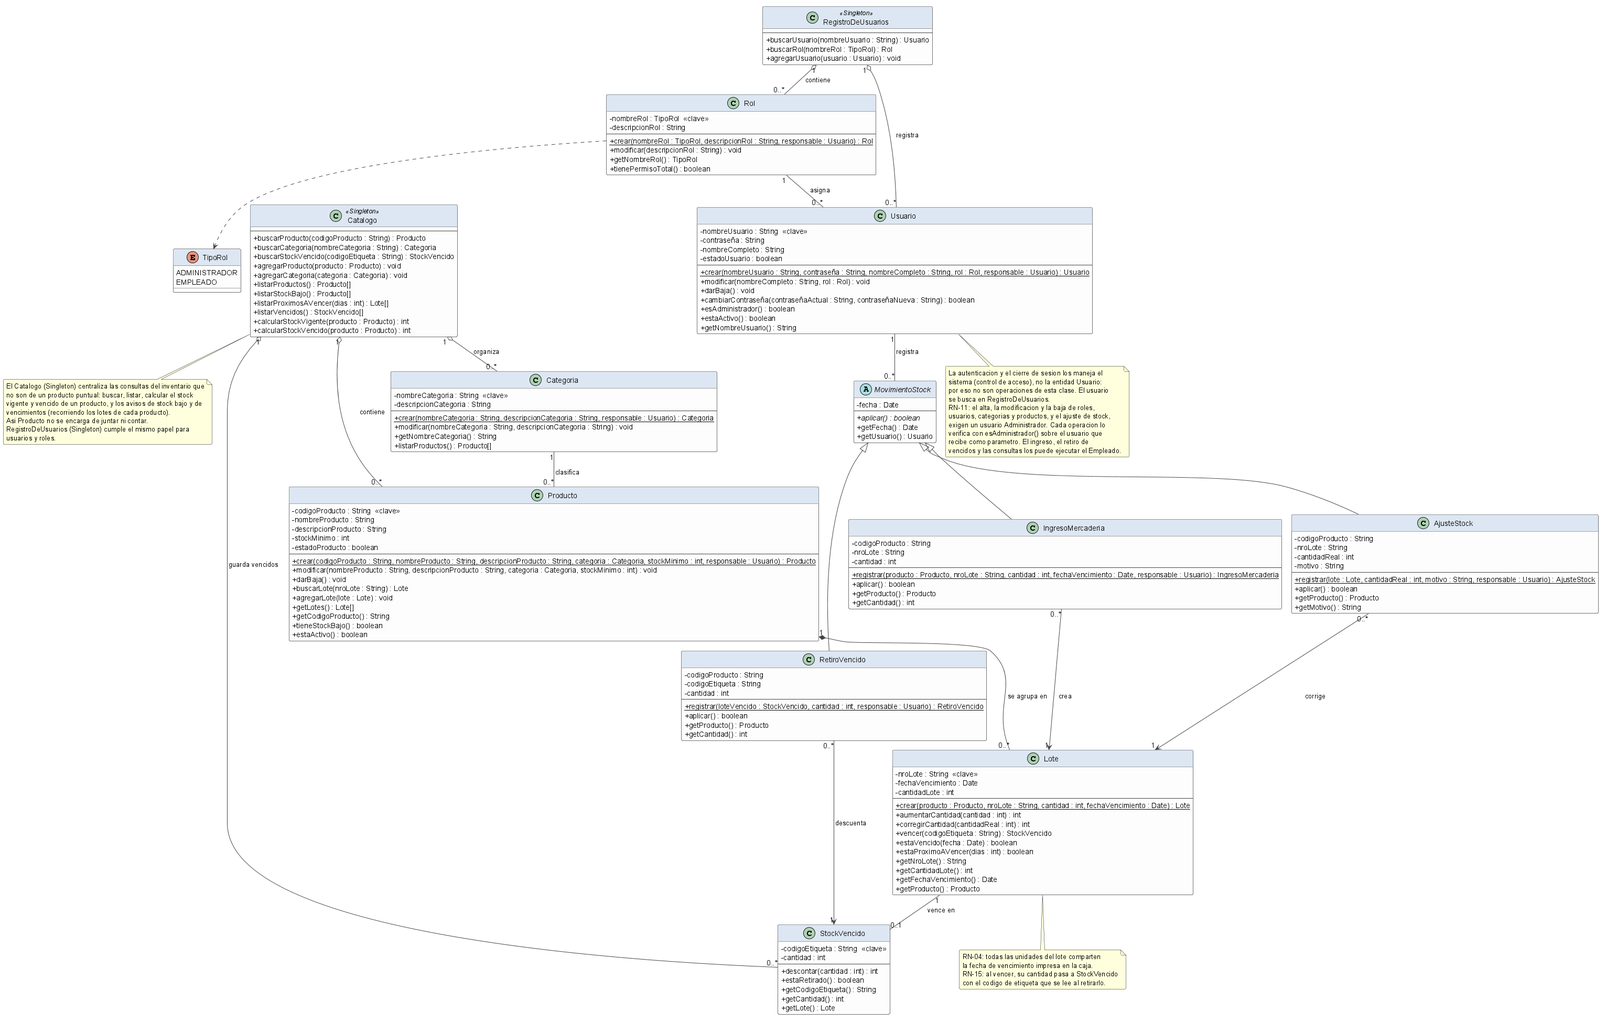
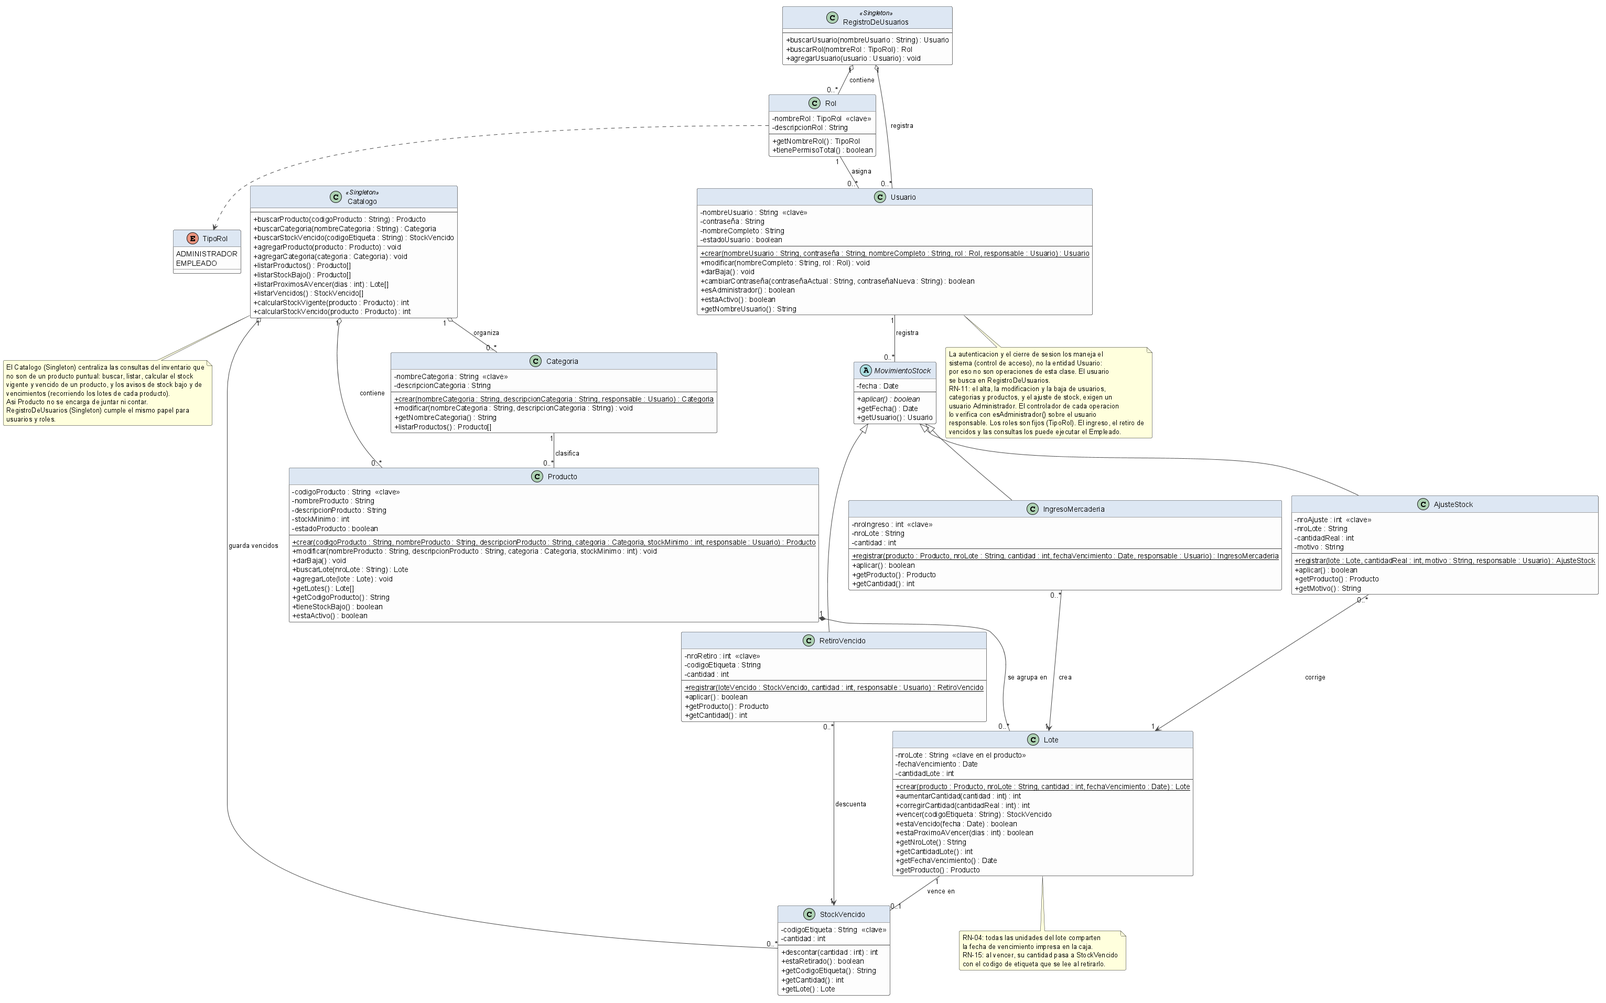
nuevas modificaciones

diff --git a/05-Caso De Uso/Casos_de_Uso.md b/05-Caso De Uso/Casos_de_Uso.md
@@ -10,8 +10,8 @@ Documentación de los requerimientos funcionales del sistema de control de stock
 
 **Primarios** (utilizan las funciones principales del sistema):
 
-- **Administrador:** acceso total. Gestiona productos, categorías y usuarios, realiza ajustes de stock, registra ingresos de mercadería y retiros de mercadería vencida, y consulta las alertas.
-- **Empleado:** funciones limitadas. Registra los movimientos de stock habilitados (ingreso de mercadería y retiro de mercadería vencida) y consulta las alertas; no puede dar de alta ni modificar productos y categorías, ni realizar ajustes de stock (RN-11).
+- **Administrador:** acceso total. Gestiona productos, categorías y usuarios, realiza ajustes de stock, registra ingresos de mercadería y retiros de mercadería vencida, y consulta los listados de stock bajo, de próximos a vencer y el stock de cada producto.
+- **Empleado:** funciones limitadas. Registra los movimientos de stock habilitados (ingreso de mercadería y retiro de mercadería vencida) y consulta los listados de stock bajo, de próximos a vencer y el stock de cada producto; no puede dar de alta ni modificar productos y categorías, ni realizar ajustes de stock (RN-11).
 
 **Secundarios:**
 
@@ -30,13 +30,12 @@ Documentación de los requerimientos funcionales del sistema de control de stock
 2. El sistema valida las credenciales.
 3. El sistema identifica el rol del usuario (Administrador o Empleado).
 4. El sistema habilita las funciones correspondientes a ese rol.
-5. El sistema muestra el panel de alertas de stock bajo, productos próximos a vencer y productos vencidos (RNF-03).
 
 **Caminos alternativos:**
-2.a El usuario o la contraseña son incorrectos.
+2.a El usuario o la contraseña son incorrectos, o el usuario está inactivo.
 2.a.1 El sistema muestra el mensaje "usuario o contraseña incorrectos" y vuelve al paso 1.
 
-**Postcondiciones:** El usuario queda autenticado con los permisos de su rol y visualiza el panel de alertas.
+**Postcondiciones:** El usuario queda autenticado con los permisos de su rol.
 
 **Escenario de éxito:** el usuario ingresó al sistema con los permisos de su rol.
 **Escenario de fracaso:** el usuario no pudo ingresar por credenciales inválidas.
@@ -129,15 +128,15 @@ c. Baja: el Administrador busca un producto y lo da de baja (queda inactivo, no 
 3. Ingresa el número de lote impreso en la caja, la cantidad recibida y la fecha de vencimiento, que vale para todas las unidades del lote (RN-04).
 4. El sistema da de alta el lote con esa fecha de vencimiento y esa cantidad, asociado al producto (RN-14).
 5. El sistema registra el movimiento con el usuario y la fecha (RN-07).
-6. El sistema confirma la actualización y muestra el stock vigente del producto, que es la suma de sus lotes no vencidos.
+6. El sistema confirma que el ingreso quedó registrado.
 
 **Caminos alternativos:**
 2.a El producto no existe todavía.
-2.a.1 El sistema ofrece darlo de alta (CU-04) o cancelar la operación.
+2.a.1 El sistema informa que el producto no existe. Fin.
 3.a La cantidad es inválida (cero o negativa), falta el número de lote o falta la fecha de vencimiento.
 3.a.1 El sistema avisa que el dato no es válido o está incompleto y vuelve al paso 3.
 3.b El número de lote ya existe para ese producto.
-3.b.1 El sistema muestra el lote existente con su fecha de vencimiento y ofrece sumar la cantidad a ese lote o corregir el número ingresado.
+3.b.1 El sistema informa que el lote ya existe y ofrece sumar la cantidad a ese lote o corregir el número ingresado.
 3.c La fecha de vencimiento ingresada ya pasó.
 3.c.1 El sistema avisa que la mercadería ya está vencida y pide confirmar antes de continuar.
 
@@ -160,13 +159,11 @@ c. Baja: el Administrador busca un producto y lo da de baja (queda inactivo, no 
 3. El Administrador selecciona el lote a corregir, e ingresa la cantidad real contada y el motivo del ajuste.
 4. El sistema corrige la cantidad de ese lote con el valor indicado.
 5. El sistema registra el movimiento con el usuario y la fecha (RN-07).
-6. El sistema confirma el ajuste y recalcula el stock vigente del producto.
+6. El sistema confirma que el ajuste quedó registrado.
 
 **Caminos alternativos:**
 3.a La cantidad es inválida (negativa) o falta el motivo.
 3.a.1 El sistema avisa que el dato no es válido o está incompleto y vuelve al paso 3.
-4.a El stock vigente corregido queda en o por debajo del stock mínimo.
-4.a.1 El sistema marca el producto en el listado de stock bajo (RN-16).
 
 **Postcondiciones:** El stock vigente del producto queda corregido con el valor real y el ajuste queda registrado con su motivo, usuario y fecha. El ajuste no modifica el stock vencido.
 
@@ -184,14 +181,14 @@ c. Baja: el Administrador busca un producto y lo da de baja (queda inactivo, no 
 **Camino básico:**
 1. El laboratorio retira la mercadería vencida del depósito.
 2. El usuario selecciona la opción de retiro de mercadería vencida.
-3. El usuario lee el código de la etiqueta del lote vencido.
-4. El sistema muestra el producto, la cantidad y la fecha de vencimiento de ese lote.
+3. El usuario ingresa el código de la etiqueta del lote vencido para consultar el producto.
+4. El sistema muestra el producto y la cantidad vencida de ese lote.
 5. El usuario ingresa la cantidad retirada y confirma.
 6. El sistema descuenta esa cantidad del stock vencido del lote (RN-18 y RN-20) y registra el movimiento con el usuario y la fecha (RN-07).
 7. El sistema confirma el retiro.
 
 **Caminos alternativos:**
-3.a La etiqueta no corresponde a ningún lote vencido registrado.
+3.a La etiqueta no corresponde a ningún lote vencido registrado, o ese lote ya fue retirado.
 3.a.1 El sistema avisa "etiqueta no encontrada" y vuelve al paso 3.
 5.a La cantidad retirada supera la cantidad registrada en el lote.
 5.a.1 El sistema avisa que la cantidad supera la del lote y vuelve al paso 5.
@@ -212,7 +209,7 @@ c. Baja: el Administrador busca un producto y lo da de baja (queda inactivo, no 
 **Precondiciones:** El usuario debe estar logueado.
 
 **Camino básico:**
-1. El usuario accede al panel de alertas de stock.
+1. El usuario consulta los productos con stock bajo.
 2. El sistema muestra los productos activos cuyo stock vigente está en o por debajo de su stock mínimo (RN-16 y RN-22).
 
 **Caminos alternativos:**
@@ -226,28 +223,26 @@ c. Baja: el Administrador busca un producto y lo da de baja (queda inactivo, no 
 
 ---
 
-## CU-09 - Consultar vencimientos y stock vencido
+## CU-09 - Consultar próximos a vencer y stock
 
 **Actores:** Administrador, Empleado (primario).
 
 **Precondiciones:** El usuario debe estar logueado.
 
 **Camino básico:**
-1. El usuario accede al panel de vencimientos.
+1. El usuario consulta los lotes próximos a vencer.
 2. El sistema muestra los lotes que están a 15 días o menos de su fecha de vencimiento, con su número de lote, su producto, su cantidad y su fecha (RN-17).
-3. El sistema muestra los lotes de stock vencido pendientes de retiro, con su etiqueta, su número de lote, su producto, su cantidad y su fecha de vencimiento.
-4. Para cada producto, el sistema muestra su stock vigente, su stock vencido y el stock total físico, que es la suma de ambos (RN-19).
+3. El usuario consulta el stock de un producto, ingresando su código.
+4. El sistema muestra el stock vigente del producto (suma de sus lotes no vencidos), su stock vencido (suma de la mercadería vencida que todavía no se retiró) y el stock total físico, que es la suma de ambos (RN-19).
 
 **Caminos alternativos:**
 2.a No hay lotes próximos a vencer.
 2.a.1 El sistema informa que no hay lotes por vencer.
-3.a No hay lotes vencidos pendientes de retiro.
-3.a.1 El sistema informa que no hay mercadería vencida en el depósito.
 
-**Postcondiciones:** El usuario visualiza qué productos están próximos a vencer y cuánta mercadería vencida hay pendiente de retiro.
+**Postcondiciones:** El usuario visualiza qué lotes están próximos a vencer y los tres tipos de stock del producto consultado.
 
-**Escenario de éxito:** el usuario obtuvo el listado de vencimientos y de stock vencido pendiente.
-**Escenario de fracaso:** no se muestran productos porque ninguno está próximo a vencer ni hay lotes vencidos.
+**Escenario de éxito:** el usuario obtuvo el listado de próximos a vencer y el stock del producto.
+**Escenario de fracaso:** no se muestran lotes porque ninguno está próximo a vencer.
 
 ---
 
@@ -257,4 +252,4 @@ Comportamientos que el sistema ejecuta por sí mismo, sin que los inicie un acto
 
 - **Vencimiento del stock (RN-15 y RN-21):** cuando un **lote** alcanza su fecha de vencimiento, el sistema traslada su cantidad a un registro de stock vencido, identificado por el código de la etiqueta que se le coloca a la caja. Ese stock deja de ser operativo pero se sigue contando dentro del stock total físico hasta su retiro (CU-07). Los demás lotes del mismo producto, con otras fechas de vencimiento, siguen vigentes.
 - **Alerta de stock bajo (RN-16):** cuando el stock vigente de un producto queda en o por debajo de su mínimo, el sistema lo marca en el listado de stock bajo (CU-08).
-- **Alerta de vencimiento (RN-17):** cuando un producto está próximo a vencer o ya venció, el sistema lo marca en el listado de vencimientos (CU-09).
+- **Alerta de vencimiento (RN-17):** cuando un lote está a 15 días o menos de su fecha de vencimiento, el sistema lo marca en el listado de próximos a vencer (CU-09).

diff --git a/04-Diccionario De Datos/Diccionario_de_Datos.md b/04-Diccionario De Datos/Diccionario_de_Datos.md
@@ -29,11 +29,11 @@ Flujos de datos en reposo. Cada uno se identifica por su clave natural (@):
 
     Producto = @codigoProducto + nombreProducto + (descripcionProducto) + nombreCategoria + stockMinimo + estadoProducto
 
-    Lote = @nroLote + codigoProducto + fechaVencimiento + cantidadLote
+    Lote = @codigoProducto + @nroLote + fechaVencimiento + cantidadLote
 
-    StockVencido = @codigoEtiqueta + nroLote + cantidad
+    StockVencido = @codigoEtiqueta + codigoProducto + nroLote + cantidad
 
-El vencimiento se maneja **por lote**: la mercadería ingresa en cajas y cada caja se carga con su número de lote, al que se le asigna la fecha de vencimiento que trae impresa (RN-03, RN-04). Un producto tiene tantos lotes como ingresos haya recibido, cada uno con su propia fecha de vencimiento y su propia cantidad.
+El vencimiento se maneja **por lote**: la mercadería ingresa en cajas y cada caja se carga con su número de lote, al que se le asigna la fecha de vencimiento que trae impresa (RN-03, RN-04). Un producto tiene tantos lotes como ingresos haya recibido, cada uno con su propia fecha de vencimiento y su propia cantidad. El número de lote no se repite dentro de un mismo producto, pero dos productos distintos pueden tener el mismo número: por eso el lote se identifica por el producto más su número.
 
 ---
 
@@ -51,9 +51,9 @@ No se almacenan: el sistema los calcula a partir de los lotes.
 
 Transacciones que actualizan el stock:
 
-    IngresoMercaderia = @nroIngreso + nroLote + cantidad + fechaIngreso + nombreUsuario
+    IngresoMercaderia = @nroIngreso + codigoProducto + nroLote + cantidad + fechaIngreso + nombreUsuario
 
-    AjusteStock = @nroAjuste + nroLote + cantidadReal + motivo + fechaAjuste + nombreUsuario
+    AjusteStock = @nroAjuste + codigoProducto + nroLote + cantidadReal + motivo + fechaAjuste + nombreUsuario
 
     RetiroVencido = @nroRetiro + codigoEtiqueta + cantidad + fechaRetiro + nombreUsuario
 
@@ -90,16 +90,16 @@ Mínimas unidades indivisibles de datos, con su nombre, descripción, longitud, 
 | descripcionProducto | Descripción del producto. | 200 | Alfanumérico | Texto libre |
 | stockMinimo | Umbral mínimo que dispara la alerta de reposición. | — | Numérico (entero) | Continuo: {vi: 0; vf: n} |
 | estadoProducto | Estado del producto. | 1 | Booleano | Discreto: {(1, activo); (0, inactivo)} |
-| nroLote | Número del lote que viene impreso en la caja (clave). | 30 | Alfanumérico | Texto libre |
-| fechaVencimiento | Fecha de vencimiento del lote, que vale para todas sus unidades. | — | Fecha | Continuo: {vi: fecha actual; vf: n} |
+| nroLote | Número del lote que viene impreso en la caja (clave junto con codigoProducto). | 30 | Alfanumérico | Texto libre |
+| fechaVencimiento | Fecha de vencimiento del lote, que vale para todas sus unidades. Puede ser anterior a la fecha actual si la mercadería llega vencida (CU-05, 3.c). | — | Fecha | Continuo: {vi: 01/01/2000; vf: n} |
 | cantidadLote | Cantidad de unidades vigentes que quedan en el lote. | — | Numérico (entero) | Continuo: {vi: 0; vf: n} |
 | codigoEtiqueta | Código de la etiqueta del lote vencido, que se lee al retirarlo (clave). | 30 | Alfanumérico | Texto libre |
-| cantidad | Cantidad de unidades del registro o movimiento. | — | Numérico (entero) | Continuo: {vi: 1; vf: n} |
+| cantidad | Cantidad de unidades del registro o movimiento. En los movimientos es al menos 1; en StockVencido llega a 0 cuando se retira todo. | — | Numérico (entero) | Continuo: {vi: 0; vf: n} |
 | nroIngreso | Identificador del ingreso de mercadería (clave). | — | Numérico (entero) | Continuo: {vi: 1; vf: n} |
-| fechaIngreso | Fecha del ingreso de mercadería. | — | Fecha | Continuo: {vi: 14/05/2026; vf: fecha actual} |
+| fechaIngreso | Fecha y hora del ingreso de mercadería (RN-07). | — | Fecha y hora | Continuo: {vi: 14/05/2026; vf: fecha actual} |
 | nroAjuste | Identificador del ajuste de stock (clave). | — | Numérico (entero) | Continuo: {vi: 1; vf: n} |
 | cantidadReal | Cantidad real contada que corrige la cantidad del lote. | — | Numérico (entero) | Continuo: {vi: 0; vf: n} |
 | motivo | Motivo de la corrección del stock. | 150 | Alfanumérico | Texto libre |
-| fechaAjuste | Fecha del ajuste de stock. | — | Fecha | Continuo: {vi: 14/05/2026; vf: fecha actual} |
+| fechaAjuste | Fecha y hora del ajuste de stock (RN-07). | — | Fecha y hora | Continuo: {vi: 14/05/2026; vf: fecha actual} |
 | nroRetiro | Identificador del retiro de mercadería vencida (clave). | — | Numérico (entero) | Continuo: {vi: 1; vf: n} |
-| fechaRetiro | Fecha del retiro de la mercadería vencida. | — | Fecha | Continuo: {vi: 14/05/2026; vf: fecha actual} |
+| fechaRetiro | Fecha y hora del retiro de la mercadería vencida (RN-07). | — | Fecha y hora | Continuo: {vi: 14/05/2026; vf: fecha actual} |

diff --git a/03-Reglas De Negocio/Reglas_de_Negocio_6ta_entrevista.md b/03-Reglas De Negocio/Reglas_de_Negocio_6ta_entrevista.md
@@ -6,7 +6,7 @@
 
 - **RN-01** Cada producto tiene definido un stock mínimo de seguridad.
 - **RN-02** Cada producto pertenece a una categoría.
-- **RN-03** Cada producto tiene una fecha de vencimiento, que se registra al ingresar la mercadería.
+- **RN-03** Cada lote de un producto tiene una fecha de vencimiento, que se registra al ingresar la mercadería.
 - **RN-04** Los productos llegan en cajas, y todos los productos de una misma caja comparten la misma fecha de vencimiento.
 - **RN-05** El stock de un producto se compone de stock vigente y stock vencido, registrados en tablas separadas: solo el stock vigente es operativo, mientras que el stock vencido se mantiene únicamente para el conteo físico hasta su retiro.
 - **RN-06** El sistema maneja dos roles de usuario: Administrador (acceso total) y Empleado (acceso restringido).
@@ -17,16 +17,16 @@
 - **RN-08** No se puede modificar la cantidad de stock a mano: todo cambio se realiza mediante una operación registrada (ingreso de mercadería, ajuste o movimiento de stock vencido).
 - **RN-09** No se puede repetir el código de un producto (debe ser único).
 - **RN-10** Ningún registro se elimina: los productos se dan de baja de forma lógica (quedan inactivos). Solo el Administrador puede inactivarlos.
-- **RN-11** Solo el Administrador puede dar de alta y modificar productos y categorías, y realizar ajustes de stock.
+- **RN-11** Solo el Administrador puede dar de alta, modificar y dar de baja usuarios y productos, dar de alta y modificar categorías, y realizar ajustes de stock.
 - **RN-12** Ningún usuario puede operar el sistema sin autenticarse con usuario y contraseña.
 - **RN-13** El stock vencido no se puede descontar mientras el producto siga físicamente en el edificio: solo se descuenta al leer su etiqueta en el momento del retiro.
 
 ## Acciones disparadoras
 
-- **RN-14** Al registrar un ingreso de mercadería, se suma la cantidad al stock vigente del producto y se registra la fecha de vencimiento de la caja.
-- **RN-15** Cuando un producto alcanza su fecha de vencimiento, su stock vigente se traslada a un registro de stock vencido (tabla aparte).
+- **RN-14** Al registrar un ingreso de mercadería, se suma la cantidad al stock vigente del producto y se registra el lote con la fecha de vencimiento de la caja.
+- **RN-15** Cuando un lote alcanza su fecha de vencimiento, su cantidad se traslada a un registro de stock vencido (tabla aparte).
 - **RN-16** Cuando el stock vigente de un producto queda en o por debajo de su mínimo, el sistema lo marca en el listado de productos con stock bajo.
-- **RN-17** Cuando un producto está próximo a vencer o ya vencido, el sistema lo marca en el listado de alertas de vencimiento.
+- **RN-17** Cuando un lote está a 15 días o menos de su fecha de vencimiento, el sistema lo marca en el listado de próximos a vencer.
 - **RN-18** Cuando se retira mercadería vencida para devolverla al laboratorio y se lee su etiqueta, se descuenta esa cantidad del stock vencido.
 
 ## Cálculos
@@ -36,5 +36,5 @@
 
 ## Inferencias
 
-- **RN-21** Si un producto superó su fecha de vencimiento, se concluye que está vencido y su stock corresponde a stock vencido.
+- **RN-21** Si un lote superó su fecha de vencimiento, se concluye que está vencido y su cantidad corresponde a stock vencido.
 - **RN-22** Si el stock vigente de un producto llega o baja de su stock mínimo, se concluye que el producto requiere reposición.

diff --git a/02-Requerimientos/Requerimientos_post 6ta entrevista.md b/02-Requerimientos/Requerimientos_post 6ta entrevista.md
@@ -19,15 +19,15 @@
 - Registro de ingreso de mercadería que incrementa el stock del producto.
 - Actualización automática del stock ante cada ingreso, movimiento o ajuste.
 - Definición de un stock mínimo por producto.
-- Alerta de stock bajo mostrada como listado/panel al ingresar al sistema.
+- Listado de consulta de los productos con stock bajo.
 - Ajuste manual de stock con registro del motivo.
 
 ### RF-04 Vencimiento y stock vencido (eje principal)
-- Registro de la fecha de vencimiento al ingresar la mercadería (una por caja).
+- Registro del número de lote y de su fecha de vencimiento al ingresar la mercadería (una fecha por lote).
 - Distinción del stock de cada producto entre **vigente** y **vencido**.
-- Cuando un producto alcanza su fecha de vencimiento, su stock pasa a contabilizarse como stock vencido.
+- Cuando un lote alcanza su fecha de vencimiento, su cantidad pasa a contabilizarse como stock vencido.
 - El stock vencido se descuenta del total únicamente al retirarse para su devolución al laboratorio, mediante la lectura de su etiqueta.
-- Alerta de productos próximos a vencer y de productos vencidos, mostrada como listado/panel.
+- Listado de consulta de los lotes próximos a vencer, y consulta del stock vigente, vencido y total físico de cada producto.
 
 ### RF-05 Datos
 - Migración de los datos de stock existentes desde las fuentes actuales (papel y planilla de Google).
@@ -44,7 +44,7 @@ Punto de venta / ventas, facturación, listas de precios, proveedores, clientes,
 
 - **RNF-01 Seguridad:** acceso autenticado con usuario y contraseña; restricción de funciones según el rol.
 - **RNF-02 Fiabilidad e integridad:** las bajas son lógicas (no se elimina información) y toda operación que modifica el stock queda registrada con el usuario y la fecha/hora.
-- **RNF-03 Usabilidad:** interfaz simple que reduzca la curva de aprendizaje en la transición del papel y la planilla de Google; las alertas de stock bajo, próximos a vencer y vencidos se presentan como un panel de consulta al ingresar.
+- **RNF-03 Usabilidad:** interfaz simple que reduzca la curva de aprendizaje en la transición del papel y la planilla de Google; las alertas de stock bajo y de próximos a vencer se presentan como listados de consulta.
 - **RNF-04 Eficiencia:** el sistema debe agilizar el registro y la consulta del stock respecto del proceso manual actual, con tiempos de respuesta ágiles.
 - **RNF-05 Disponibilidad:** respaldo automático de la información, dada la dependencia previa del papel y la planilla de Google.
 

diff --git a/08-Diagrama De Secuencia/Diagramas_de_Secuencia.md b/08-Diagrama De Secuencia/Diagramas_de_Secuencia.md
@@ -10,7 +10,7 @@
 - **CU-06 - Ajustar stock**: `seleccionarProducto`, `ajustarStock`
 - **CU-07 - Registrar retiro de mercadería vencida**: `consultarProducto`, `registrarRetiro`
 - **CU-08 - Consultar productos con stock bajo**: `consultarStockBajo`
-- **CU-09 - Consultar vencimientos y stock vencido**: `consultarProximosAVencer`, `consultarStock`
+- **CU-09 - Consultar próximos a vencer y stock**: `consultarProximosAVencer`, `consultarStock`
 
 ---
 
@@ -1198,7 +1198,7 @@ deactivate csb
 
 ---
 
-## CU-09 - Consultar vencimientos y stock vencido
+## CU-09 - Consultar próximos a vencer y stock
 
 ### `consultarProximosAVencer`
 
@@ -1209,7 +1209,7 @@ deactivate csb
 
 ```plantuml
 @startuml DSD_CU-09_consultarProximosAVencer
-' Diagrama de Secuencia de Diseño (DSD) - CU-09 Consultar vencimientos y stock vencido - consultarProximosAVencer
+' Diagrama de Secuencia de Diseño (DSD) - CU-09 Consultar próximos a vencer y stock - consultarProximosAVencer
 ' Estilo de los ejemplos de la teoría (introducirArticulo / crearNuevaVenta).
 hide footbox
 skinparam shadowing false
@@ -1274,7 +1274,7 @@ deactivate cpv
 
 ```plantuml
 @startuml DSD_CU-09_consultarStock
-' Diagrama de Secuencia de Diseño (DSD) - CU-09 Consultar vencimientos y stock vencido - consultarStock
+' Diagrama de Secuencia de Diseño (DSD) - CU-09 Consultar próximos a vencer y stock - consultarStock
 ' Estilo de los ejemplos de la teoría (introducirArticulo / crearNuevaVenta).
 hide footbox
 skinparam shadowing false

diff --git a/03-Reglas De Negocio/Reglas_de_Negocio.md b/03-Reglas De Negocio/Reglas_de_Negocio.md
@@ -1,5 +1,7 @@
 # Reglas de Negocio
 
+> **Versión anterior a la 6ta entrevista.** La versión vigente es [Reglas de Negocio 6ta entrevista](Reglas_de_Negocio_6ta_entrevista.md).
+
 > Versión alineada a las 5 entrevistas. Se corrigieron las reglas basadas en supuestos de lotes/FEFO y se agregaron las reglas de cuenta corriente, caja y vencimientos. Se eliminaron RN-12 (FEFO) y RN-27 (baja rotación) por no tener respaldo en ninguna entrevista; los números se conservan para no romper referencias previas.
 
 ---

diff --git a/02-Requerimientos/Requerimientos_Funcionales.md b/02-Requerimientos/Requerimientos_Funcionales.md
@@ -1,5 +1,7 @@
 # Requerimientos Funcionales - Stock Proyect
 
+> **Versión anterior a la 6ta entrevista.** La versión vigente es [Requerimientos post 6ta entrevista](Requerimientos_post%206ta%20entrevista.md).
+
 Funcionalidades que debe cumplir el sistema de gestión de la distribuidora de productos capilares, según lo relevado en las 5 entrevistas con Darío Fabián Conti.
 
 ## RF-01 Gestión de usuarios y seguridad

diff --git a/02-Requerimientos/Requerimientos_No_Funcionales.md b/02-Requerimientos/Requerimientos_No_Funcionales.md
@@ -1,5 +1,7 @@
 # Requerimientos No Funcionales - Stock Proyect
 
+> **Versión anterior a la 6ta entrevista.** La versión vigente es [Requerimientos post 6ta entrevista](Requerimientos_post%206ta%20entrevista.md).
+
 Cualidades y restricciones técnicas que debe cumplir el sistema, derivadas de lo relevado en las entrevistas con Darío Fabián Conti.
 
 ## RNF-01 Seguridad
